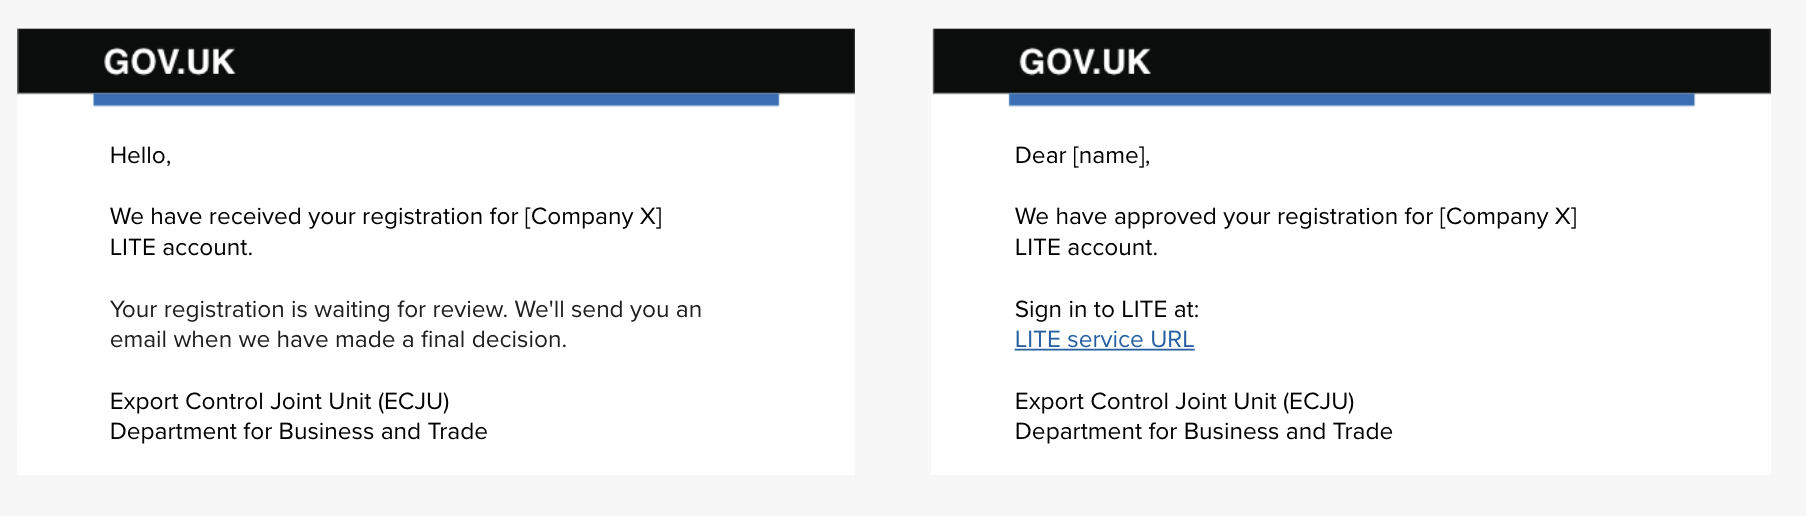
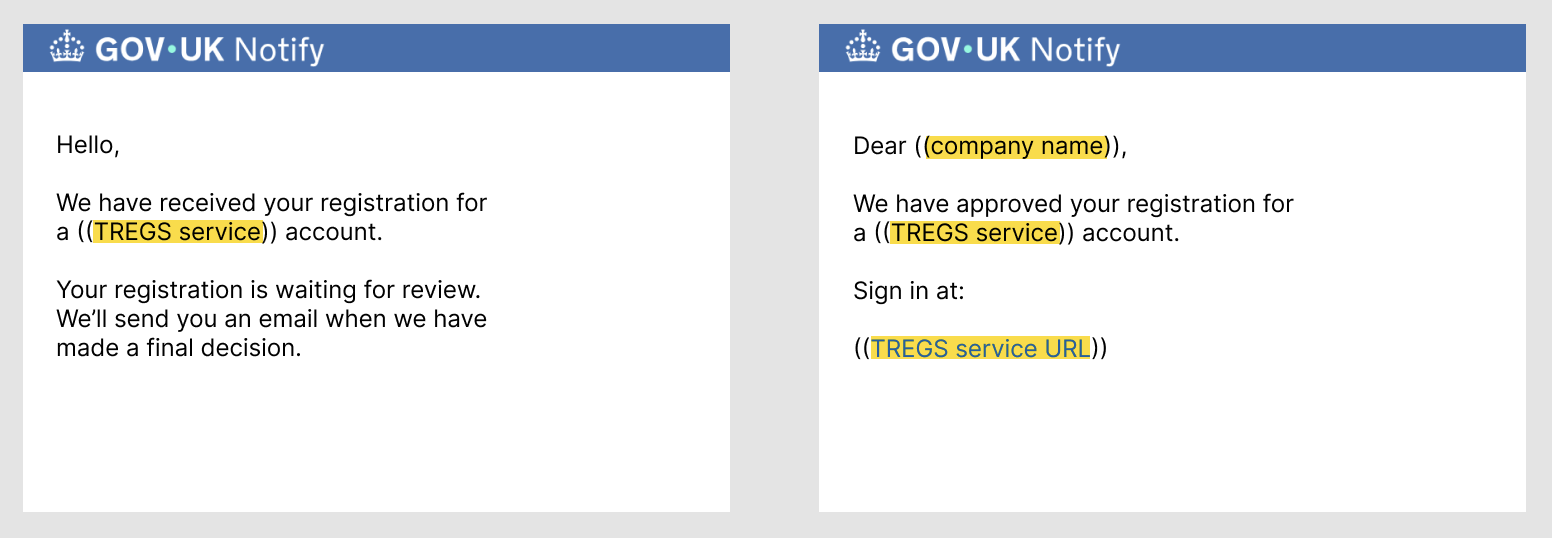
images update

Changed region(s): [[0.0, 0.031, 0.9897, 0.9302], [0.5567, 0.7442, 0.7732, 0.8682], [0.0619, 0.7442, 0.2784, 0.8682]]

diff --git a/apps/docs/src/common/pages/get-started.tsx b/apps/docs/src/common/pages/get-started.tsx
@@ -25,8 +25,8 @@ const Page: FC<PageProps> = () => (
     </div>
     <div className="govuk-grid-column-three-quarters">
       <h1>{title}</h1>
-        <p>This design system provides reusable building blocks that help standardise both public-facing and internal case management systems for domestic and international regulations, licensing and trade.</p>
-        <p>It builds on the <A href="https://design-system.service.gov.uk/">GOV.UK design system</A> and supplements BIST and other portfolio design systems, providing TREGS-specific elements where evidenced.</p>
+        <p>The TREGS design system encourages teams to learn from the work of others, reuse where possible and solve common problems across the portfolio.</p>
+
 
         <h2>Licensing case management working model</h2>
         <p>This shared working model sits in <A href="https://uktrade.atlassian.net/wiki/spaces/DCMSS/pages/5200347262/Licensing+Case+Management+Shared+Working+Model">Confluence</A> and contains an MVP caseworking spine with reusable stages, service patterns and capabilities which feeds into some of the caseworking components, patterns and pages in the design system.</p>

diff --git a/apps/docs/src/common/pages/index.tsx b/apps/docs/src/common/pages/index.tsx
@@ -17,7 +17,8 @@ const Page: FC<PageProps> = props => (
     <div className="govuk-grid-row">
       <div className="govuk-grid-column-two-thirds">
         <h1>Design and deliver your TREG services consistently</h1>
-        <p className="govuk-body-l">The TREGS design system encourages teams to learn from the work of others, reuse where possible and solve common problems across the portfolio. </p>
+        <p>The TREGS design system provides reusable building blocks that help standardise both public-facing and internal case management systems for domestic and international regulations, licensing and trade.</p>
+        <p>It builds on the <A href="https://design-system.service.gov.uk/">GOV.UK design system</A> and supplements BIST and other portfolio design systems, providing TREGS-specific elements where evidenced.</p>
         <p className="govuk-body govuk-!-font-size-19">This is a temporarily hosted system until we migrate into the <A href="https://design.businessandtrade.gov.uk/">BIST domain</A>.</p>
 
 
